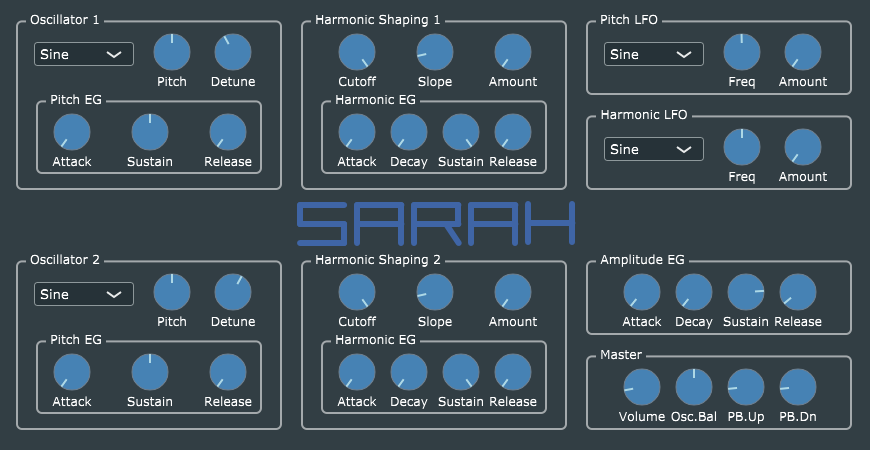
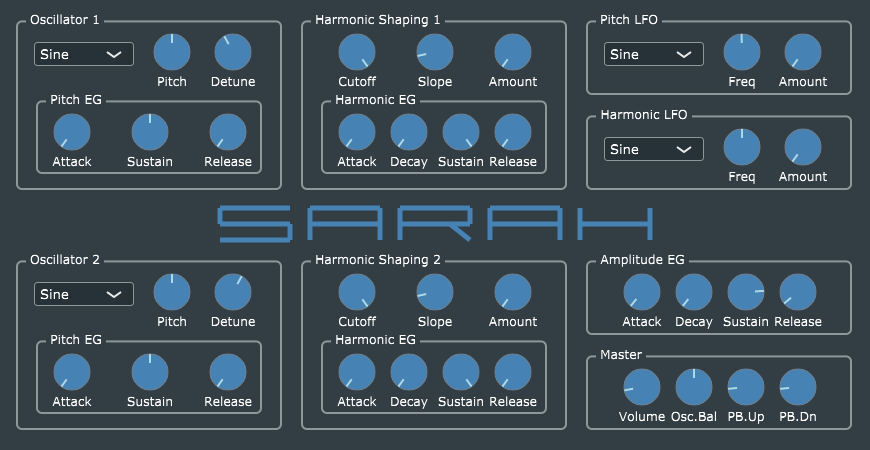
Make background image optional
Unless user supplies a background image at run-time, OR program has been
compiled with modifications, a pure vector-graphics GUI will be
generated with all required elements.

Changed region(s): [[0.2483, 0.4356, 0.7759, 0.56]]

diff --git a/Source/PluginEditor.cpp b/Source/PluginEditor.cpp
@@ -33,13 +33,15 @@ void MyLookAndFeel::drawRotarySlider(Graphics& g, int x, int y, int width, int h
     g.fillPath(p);
 }
 
-//#define SHOW_GROUP_BOXES
-//#define SHOW_LABELS
-#define SHOW_CONTROLS
-
 SARAHAudioProcessorEditor::SARAHAudioProcessorEditor (SARAHAudioProcessor& p)
     : AudioProcessorEditor (&p)
     , processor (p)
+    , backgroundColour(0xff323e44)  // default JUCE background colour
+    , useBackgroundImage(false)
+    , showGroupBoxes(true)
+    , showLabels(true)
+    , showLogo(true)
+    , showControls(true)
     , gOsc1("gOsc1", TRANS("Oscillator 1"))
     , gPeg1("gPeg1", TRANS("Pitch EG"))
     , gOsc2("gOsc2", TRANS("Oscillator 2"))
@@ -89,38 +91,52 @@ SARAHAudioProcessorEditor::SARAHAudioProcessorEditor (SARAHAudioProcessor& p)
     , lblAmpEgSustain("lblAmpEgSustain", TRANS("Sustain"))
     , lblAmpEgRelease ("lblAmpEgRelease", TRANS("Release"))
 {
-    setSize (870, 450);
+    setSize (windowWidth, windowHeight);
     p.addChangeListener(this);
 
     setLookAndFeel(&myLookAndFeel);
-    backgroundImage = ImageCache::getFromMemory(BinaryData::background_png, BinaryData::background_pngSize);
 
+    // If you intend to take screenshots as basis for developing custom backgrounds,
+    // modify the defaults for backgroundColour, useBackgroundImage, showGroupBoxes,
+    // showLabels, showLogo, showControls here, e.g.
+    //backgroundColour = Colour(0xff000000);  // opaque black
+
+    backgroundImage = ImageCache::getFromMemory(BinaryData::background_png, BinaryData::background_pngSize);
     File fileOnDesktop = File::getSpecialLocation(File::SpecialLocationType::userDesktopDirectory).getChildFile("sarah.png");
     if (fileOnDesktop.existsAsFile())
     {
+        // if user has provided a background image, we always use it
         backgroundImage = ImageFileFormat::loadFrom(fileOnDesktop);
+        useBackgroundImage = true;
     }
 
-#ifdef SHOW_GROUP_BOXES
-    addAndMakeVisible(gOsc1);
-    addAndMakeVisible(gPeg1);
-    addAndMakeVisible(gOsc2);
-    addAndMakeVisible(gPeg2);
-    addAndMakeVisible(gFlt1);
-    addAndMakeVisible(gFeg1);
-    addAndMakeVisible(gFlt2);
-    addAndMakeVisible(gFeg2);
-    addAndMakeVisible(gPlfo);
-    addAndMakeVisible(gHlfo);
-    addAndMakeVisible(gAeg);
-    addAndMakeVisible(gMaster);
-#endif
+    if (useBackgroundImage)
+    {
+        // display only controls, assuming all static material is in the background image
+        showGroupBoxes = false;
+        showLabels = false;
+        showLogo = false;
+    }
+
+    if (showGroupBoxes)
+    {
+        addAndMakeVisible(gOsc1);
+        addAndMakeVisible(gPeg1);
+        addAndMakeVisible(gOsc2);
+        addAndMakeVisible(gPeg2);
+        addAndMakeVisible(gFlt1);
+        addAndMakeVisible(gFeg1);
+        addAndMakeVisible(gFlt2);
+        addAndMakeVisible(gFeg2);
+        addAndMakeVisible(gPlfo);
+        addAndMakeVisible(gHlfo);
+        addAndMakeVisible(gAeg);
+        addAndMakeVisible(gMaster);
+    }
 
     auto initLabel = [this](Label& label)
     {
-#ifdef SHOW_LABELS
-        addAndMakeVisible(label);
-#endif
+        if (showLabels) addAndMakeVisible(label);
         label.setJustificationType(Justification::horizontallyCentred);
         label.setEditable(false, false, false);
     };
@@ -164,9 +180,7 @@ SARAHAudioProcessorEditor::SARAHAudioProcessorEditor (SARAHAudioProcessor& p)
 
     auto initCombo = [this](WaveformComboBox& combo)
     {
-#ifdef SHOW_CONTROLS
-        addAndMakeVisible(combo);
-#endif
+        if (showControls) addAndMakeVisible(combo);
         combo.setEditableText(false);
         combo.setJustificationType(Justification::centredLeft);
         combo.setTextWhenNothingSelected("");
@@ -185,9 +199,7 @@ SARAHAudioProcessorEditor::SARAHAudioProcessorEditor (SARAHAudioProcessor& p)
 
     auto initSlider = [this](Slider& slider)
     {
-#ifdef SHOW_CONTROLS
-        addAndMakeVisible(slider);
-#endif
+        if (showControls) addAndMakeVisible(slider);
         slider.setSliderStyle(Slider::Rotary);
         slider.setTextBoxStyle(Slider::NoTextBox, false, 0, 0);
         slider.setPopupDisplayEnabled(true, true, this);
@@ -239,11 +251,82 @@ SARAHAudioProcessorEditor::~SARAHAudioProcessorEditor()
     processor.removeChangeListener(this);
 }
 
-void SARAHAudioProcessorEditor::paint (Graphics& g)
+void SARAHAudioProcessorEditor::PaintSarahLogo(Graphics& g)
 {
-    //g.fillAll(Colour(0xff323e44));
-    //g.fillAll(Colour(0xff000000));
-    g.drawImageAt(backgroundImage, 0, 0);
+    // basic letter structure
+    static int width = 7;
+    static int spacing = 2;
+    static int halfHeight = 3;
+    static int r_indent = 2;
+
+    // see resized() below
+    const int topOffset1 = 12;
+    const int largeGroupHeight = 180;
+    const int middleGap = 60;
+
+    // vertical layout
+    const int logoTopOffset = 16;
+    const int logoHeight = 32;
+    const int logoTop = topOffset1 + largeGroupHeight + logoTopOffset;
+    const int logoMid = logoTop + logoHeight / 2;
+    const int logoBottom = logoTop + logoHeight;
+
+    // horizontal layout
+    static float widthScale = 10.0f;
+    static float letterWidth = widthScale * width;
+    static float rWidth = widthScale * (width - r_indent);
+    static float letterAdvance = widthScale * (width + spacing);
+    static float wordWidth = widthScale * (5 * width + 4 * spacing);
+    static float logoLeft = windowWidth / 2 - 0.5f * wordWidth;
+
+    static float lineThickness = 5.0f;
+    g.setColour(Colours::steelblue);
+
+    // Letter S
+    float left = logoLeft;
+    g.drawLine(left, logoTop, left + letterWidth, logoTop, lineThickness);
+    g.drawLine(left, logoTop, left, logoMid, lineThickness);
+    g.drawLine(left, logoMid, left + letterWidth, logoMid, lineThickness);
+    g.drawLine(left + letterWidth, logoMid, left + letterWidth, logoBottom, lineThickness);
+    g.drawLine(left, logoBottom, left + letterWidth, logoBottom, lineThickness);
+
+    // Letter A
+    left += letterAdvance;
+    g.drawLine(left, logoTop, left + letterWidth, logoTop, lineThickness);
+    g.drawLine(left, logoTop, left, logoBottom, lineThickness);
+    g.drawLine(left + letterWidth, logoTop, left + letterWidth, logoBottom, lineThickness);
+    g.drawLine(left, logoMid, left + letterWidth, logoMid, lineThickness);
+
+    // Letter R
+    left += letterAdvance;
+    g.drawLine(left, logoTop, left + letterWidth, logoTop, lineThickness);
+    g.drawLine(left, logoTop, left, logoBottom, lineThickness);
+    g.drawLine(left + letterWidth, logoTop, left + letterWidth, logoMid, lineThickness);
+    g.drawLine(left, logoMid, left + letterWidth, logoMid, lineThickness);
+    g.drawLine(left + rWidth, logoMid, left + letterWidth, logoBottom, lineThickness);
+
+    // Letter A
+    left += letterAdvance;
+    g.drawLine(left, logoTop, left + letterWidth, logoTop, lineThickness);
+    g.drawLine(left, logoTop, left, logoBottom, lineThickness);
+    g.drawLine(left + letterWidth, logoTop, left + letterWidth, logoBottom, lineThickness);
+    g.drawLine(left, logoMid, left + letterWidth, logoMid, lineThickness);
+
+    // Letter H
+    left += letterAdvance;
+    g.drawLine(left, logoTop, left, logoBottom, lineThickness);
+    g.drawLine(left + letterWidth, logoTop, left + letterWidth, logoBottom, lineThickness);
+    g.drawLine(left, logoMid, left + letterWidth, logoMid, lineThickness);
+}
+
+void SARAHAudioProcessorEditor::paint(Graphics& g)
+{
+    if (useBackgroundImage)
+        g.drawImageAt(backgroundImage, 0, 0);
+    else
+        g.fillAll(backgroundColour);
+
+    if (showLogo) PaintSarahLogo(g);
 }
 
 void SARAHAudioProcessorEditor::resized()

diff --git a/Source/PluginEditor.h b/Source/PluginEditor.h
@@ -79,9 +79,18 @@ public:
     void sliderValueChanged(Slider*) override;
 
 private:
+    // some empirical constants used in layout
+    static const int windowWidth = 870;
+    static const int windowHeight = 450;
+
+    void PaintSarahLogo(Graphics& g);
+
     Image backgroundImage;
     MyLookAndFeel myLookAndFeel;
     SARAHAudioProcessor& processor;
+
+    Colour backgroundColour;
+    bool useBackgroundImage, showGroupBoxes, showLabels, showLogo, showControls;
 
     GroupComponent gOsc1, gPeg1, gOsc2, gPeg2, gFlt1, gFeg1, gFlt2, gFeg2, gPlfo, gHlfo, gAeg, gMaster;
     WaveformComboBox cbOsc1, cbOsc2, cbPlfo, cbHlfo;
